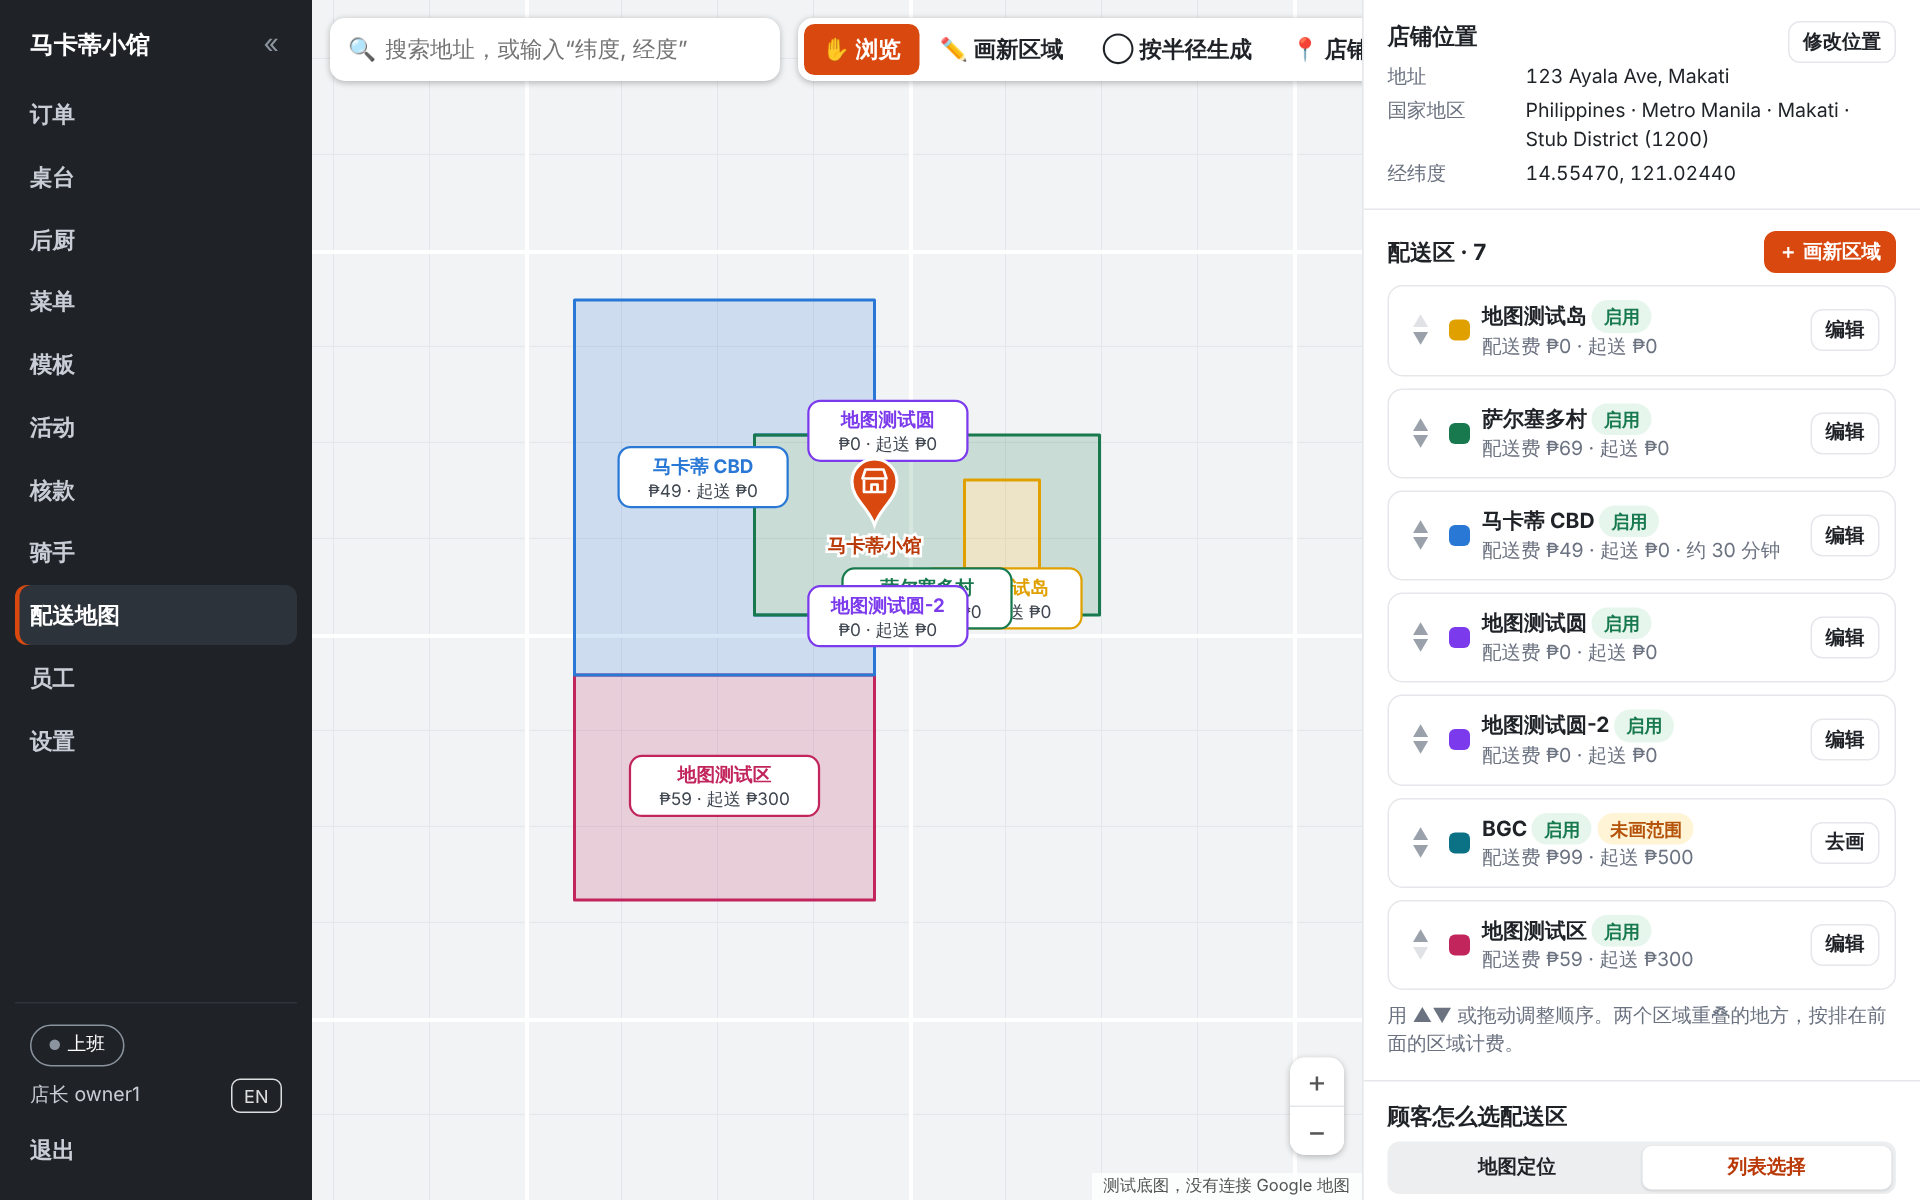
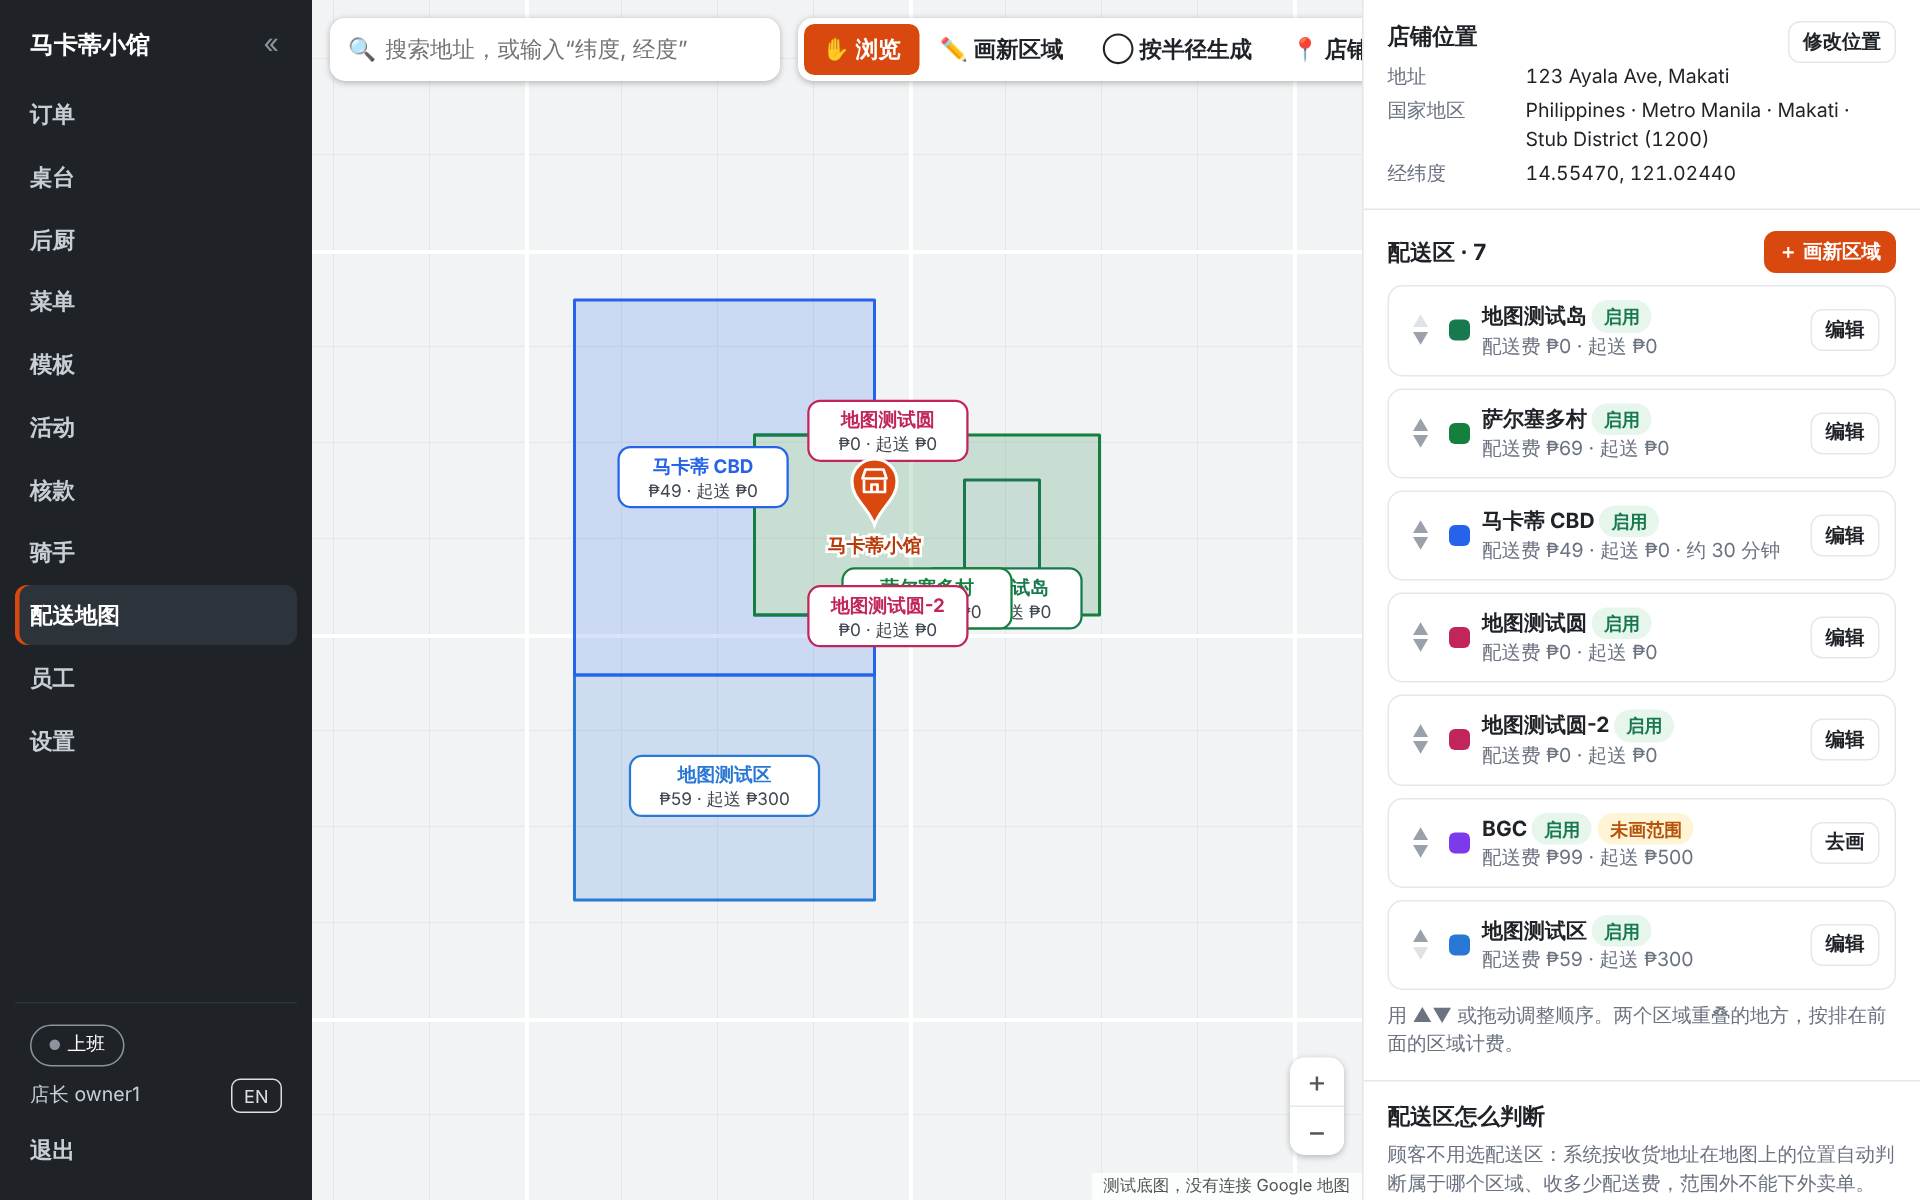
Customers never pick a delivery area: every store decides it from the address pin
- The 'pick from a list' mode is gone from the merchant's delivery map;
  migration 00025 moves every store to the pin. Only a platform without a
  map key still falls back to a list at checkout.
- The demo stores are seeded with a location and drawn delivery areas.

Claude-Session: https://claude.ai/code/session_0171QGWLnojEtBXpV8WE34Xa

diff --git a/web/src/views/DeliveryMapView.vue b/web/src/views/DeliveryMapView.vue
@@ -405,11 +405,6 @@ function dropRow(i: number) {
   reorder(ids)
 }
 const tol = ref(200)
-async function setMode(m: 'list' | 'map') {
-  if (readOnly.value || branch.value?.zone_mode === m) return
-  const b = await run(() => put<Branch>(`/merchant/branches/${bid}/zone-mode`, { zone_mode: m, zone_tolerance_m: branch.value!.zone_tolerance_m }))
-  if (b) branch.value = b
-}
 
 // ---- store location ----
 const loc = reactive({ lat: 0, lng: 0, address: '' })
@@ -492,7 +487,7 @@ async function undoClose() {
   if (await run(async () => { await putPolygon(zoneById(u.id), u.polygon); return true })) { undo = null; canUndo.value = false; notice.value = '' }
 }
 async function saveTolerance() {
-  const b = await run(() => put<Branch>(`/merchant/branches/${bid}/zone-mode`, { zone_mode: branch.value!.zone_mode, zone_tolerance_m: Math.round(Number(tol.value) || 0) }))
+  const b = await run(() => put<Branch>(`/merchant/branches/${bid}/zone-mode`, { zone_mode: 'map', zone_tolerance_m: Math.round(Number(tol.value) || 0) }))
   if (b) { branch.value = b; notice.value = t('mz.saved') }
 }
 
@@ -757,9 +752,8 @@ async function fbSave() {
         </section>
         <section>
           <h2>{{ t('mz.how') }}</h2>
-          <div class="seg"><button :class="{ on: branch.zone_mode === 'map' }" :disabled="readOnly" data-testid="mode-map" @click="setMode('map')">{{ t('mz.mode_map') }}</button>
-            <button :class="{ on: branch.zone_mode === 'list' }" :disabled="readOnly" data-testid="mode-list" @click="setMode('list')">{{ t('mz.mode_list') }}</button></div>
-          <p class="small muted" style="margin-top:8px">{{ t(branch.zone_mode === 'map' ? 'mz.mode_map_hint' : 'mz.mode_list_hint') }}</p>
+          <p class="small muted">{{ t('mz.mode_map_hint') }}</p>
+          <div v-if="!store || !drawn.some(z => z.active)" class="banner warn" style="margin-top:8px" data-testid="no-delivery-yet">{{ t('mz.no_delivery_yet') }}</div>
           <div class="row between" style="margin-top:10px"><span>{{ t('mz.tolerance') }}</span>
             <span class="row" style="gap:6px"><b>{{ t('mz.metres', { n: branch.zone_tolerance_m }) }}</b><button class="btn small" data-testid="open-gaps" @click="openGaps">{{ t('mz.view') }}</button></span></div>
           <p class="small muted" style="margin-top:4px">{{ branch.zone_tolerance_m ? t('mz.tolerance_hint', { n: branch.zone_tolerance_m }) : t('mz.tolerance_zero') }}</p>

diff --git a/web/src/views/mapStrings.ts b/web/src/views/mapStrings.ts
@@ -16,8 +16,9 @@ extend({
   'mz.fee': ['配送费', 'Fee'], 'mz.min': ['起送', 'Min.'], 'mz.eta': ['约 {n} 分钟', '~{n} min'],
   'mz.order_hint': ['用 ▲▼ 或拖动调整顺序。两个区域重叠的地方，按排在前面的区域计费。', 'Reorder with ▲▼ or by dragging. Where two areas overlap, the one higher in the list applies.'],
   'mz.no_zones': ['还没有配送区。点“画新区域”开始。', 'No delivery areas yet. Start with "Draw area".'],
-  'mz.how': ['顾客怎么选配送区', 'How customers pick an area'], 'mz.mode_map': ['地图定位', 'Pin on map'], 'mz.mode_list': ['列表选择', 'Pick from list'],
-  'mz.mode_map_hint': ['顾客下单时在地图上定位送餐地址，系统自动判断属于哪个区域，范围外不能下外卖单。', 'Customers drop a pin; the system works out the area. Outside all areas, delivery is not offered.'],
+  'mz.how': ['配送区怎么判断', 'How the area is decided'],
+  'mz.no_delivery_yet': ['还没有设置店铺位置，或者没有一个启用的区域画了范围，顾客暂时下不了外卖单。', 'The store has no location yet, or no enabled area has an outline: customers cannot order a delivery yet.'],
+  'mz.mode_map_hint': ['顾客不用选配送区：系统按收货地址在地图上的位置自动判断属于哪个区域、收多少配送费，范围外不能下外卖单。', 'Customers drop a pin; the system works out the area. Outside all areas, delivery is not offered.'],
   'mz.mode_list_hint': ['顾客自己从列表里选区域，地图上画的范围暂时不起作用。', 'Customers pick an area by name; the outlines are not used.'],
   'mz.not_ready': ['要先设置店铺位置，并且至少有一个启用的区域画了范围，才能切到地图定位。', 'Set the store location and draw at least one enabled area first.'],
   'mz.tolerance': ['圈外容差', 'Tolerance outside areas'], 'mz.metres': ['{n} 米', '{n} m'], 'mz.view': ['查看', 'View'],

diff --git a/internal/app/mapzones_test.go b/internal/app/mapzones_test.go
@@ -29,10 +29,7 @@ func TestMapZones(t *testing.T) {
 	s := newStore(t, true)
 	a, ctx := testApp, context.Background()
 
-	// Map mode needs a store location and a drawn zone first.
-	_, err := a.SaveZoneMode(ctx, s.branchID, app.ZoneModeInput{ZoneMode: "map", ZoneToleranceM: 200})
-	wantCode(t, err, "MAP_NOT_READY")
-	_, err = a.SaveLocation(ctx, s.branchID, app.LocationInput{Lat: 95, Lng: 0})
+	_, err := a.SaveLocation(ctx, s.branchID, app.LocationInput{Lat: 95, Lng: 0})
 	wantCode(t, err, "VALIDATION")
 	store := m(500, 500)
 	b, err := a.SaveLocation(ctx, s.branchID, app.LocationInput{Lat: store[0], Lng: store[1], Address: "1 Map St"})
@@ -63,8 +60,9 @@ func TestMapZones(t *testing.T) {
 	}
 	_, err = a.SaveLocation(ctx, s.branchID, app.LocationInput{Lat: store[0], Lng: store[1]})
 	noErr(t, err)
-	_, err = a.SaveZoneMode(ctx, s.branchID, app.ZoneModeInput{ZoneMode: "map", ZoneToleranceM: 200})
-	wantCode(t, err, "MAP_NOT_READY") // the only zone has no outline yet
+	// Customers can no longer be made to pick an area from a list.
+	_, err = a.SaveZoneMode(ctx, s.branchID, app.ZoneModeInput{ZoneMode: "list", ZoneToleranceM: 200})
+	wantCode(t, err, "VALIDATION")
 
 	// Outlines are validated.
 	eta := 25
@@ -218,17 +216,20 @@ func TestMapZones(t *testing.T) {
 		t.Fatalf("order after zone changes: %+v", o)
 	}
 
-	// Back to list mode: the list works again and outlines stay.
-	_, err = a.SaveZoneMode(ctx, s.branchID, app.ZoneModeInput{ZoneMode: "list", ZoneToleranceM: 200})
+	// Where the platform has no map key there is no pin: the area named in
+	// the request is used, and the outlines stay.
+	off := *a
+	off.MapsOff = true
+	zid := s.zoneID
+	lq, err := off.CreateQuote(ctx, s.slug, app.QuoteInput{ServiceType: "delivery", ZoneID: &zid, Items: s.cart()}, "+639170000001")
 	noErr(t, err)
-	q = s.quote(t, "delivery", s.cart())
-	if q.ZoneName != "Z" {
-		t.Fatalf("list mode again: %+v", q)
+	if lq.ZoneName != "Z" {
+		t.Fatalf("without a map: %+v", lq)
 	}
 	menu, err = a.AdminMenu(ctx, s.branchID)
 	noErr(t, err)
 	if len(menu.Zones) != 3 || len(menu.Zones[0].Polygon) != 4 {
-		t.Fatalf("zones after switching back: %+v", menu.Zones)
+		t.Fatalf("zones afterwards: %+v", menu.Zones)
 	}
 }
 
@@ -258,10 +259,6 @@ func TestMapModeNeedsPlatformKey(t *testing.T) {
 	_, err = a.CreateQuote(ctx, s.slug, in, "+639170000001")
 	wantCode(t, err, "OUT_OF_ZONE") // with a key the pin is required
 
-	_, err = a.SaveZoneMode(ctx, s.branchID, app.ZoneModeInput{ZoneMode: "list", ZoneToleranceM: 200})
-	noErr(t, err)
-	_, err = off.SaveZoneMode(ctx, s.branchID, app.ZoneModeInput{ZoneMode: "map", ZoneToleranceM: 200})
-	wantCode(t, err, "MAPS_DISABLED")
 }
 
 // Cutting an overlap reshapes several zones at once: all are saved or none.

diff --git a/internal/app/menu.go b/internal/app/menu.go
@@ -4,7 +4,6 @@ import (
 	"context"
 	"encoding/json"
 	"math"
-	"net/http"
 	"regexp"
 	"strings"
 
@@ -447,32 +446,17 @@ type ZoneModeInput struct {
 	ZoneToleranceM int    `json:"zone_tolerance_m"`
 }
 
-// SaveZoneMode switches between picking a zone from a list and locating on
-// the map, and sets the tolerance outside the outlines.
+// SaveZoneMode sets the tolerance outside the outlines. The area of a
+// delivery always follows the address's pin now; "list" (the customer picks
+// an area by name) can no longer be chosen. It is only what a platform
+// without a map key falls back to (forCustomer).
 func (a *App) SaveZoneMode(ctx context.Context, branchID int64, in ZoneModeInput) (*Branch, error) {
-	if in.ZoneMode != "list" && in.ZoneMode != "map" {
-		return nil, ErrValidation("zone_mode must be list or map")
+	if in.ZoneMode != "" && in.ZoneMode != "map" {
+		return nil, ErrValidation("zone_mode can only be map")
 	}
+	in.ZoneMode = "map"
 	if in.ZoneToleranceM < 0 || in.ZoneToleranceM > 500 {
 		return nil, ErrValidation("tolerance must be 0 to 500 metres")
-	}
-	if in.ZoneMode == "map" {
-		b, err := a.BranchByID(ctx, branchID)
-		if err != nil {
-			return nil, err
-		}
-		if a.mapsOff() && b.ZoneMode != "map" {
-			return nil, Err(http.StatusConflict, "MAPS_DISABLED", "this platform has no map key configured")
-		}
-		var drawn int
-		if err := a.DB.QueryRow(ctx, `SELECT count(*) FROM delivery_zones WHERE branch_id=$1 AND active
-			AND polygon IS NOT NULL`, branchID).Scan(&drawn); err != nil {
-			return nil, err
-		}
-		if b.latLng() == nil || drawn == 0 {
-			return nil, Err(http.StatusConflict, "MAP_NOT_READY",
-				"set the store location and draw at least one active zone first")
-		}
 	}
 	tag, err := a.DB.Exec(ctx, `UPDATE branches SET zone_mode=$2, zone_tolerance_m=$3 WHERE id=$1`,
 		branchID, in.ZoneMode, in.ZoneToleranceM)

diff --git a/cmd/seed/main.go b/cmd/seed/main.go
@@ -86,10 +86,16 @@ func seedStore(ctx context.Context, a *app.App, slug, name, nameEn, owner string
 	})
 	must(err)
 
+	// The store is on the map and its delivery areas are drawn: the area of a
+	// delivery follows the pin of the customer's address.
+	_, err = a.SaveLocation(ctx, bid, app.LocationInput{Lat: 14.5547, Lng: 121.0244, Address: "123 Ayala Ave, Makati",
+		Region: &app.Region{CountryCode: "PH", Country: "Philippines", Province: "Metro Manila", City: "Makati", District: "Bel-Air", PostalCode: "1209"}})
+	must(err)
+	box := func(s, w, n, e float64) app.Polygon { return app.Polygon{{n, w}, {n, e}, {s, e}, {s, w}} }
 	for i, z := range []app.ZoneInput{
-		{Name: "马卡蒂 CBD", NameEn: "Makati CBD", Fee: 4900, Active: true},
-		{Name: "萨尔塞多村", NameEn: "Salcedo Village", Fee: 6900, Active: true},
-		{Name: "BGC", NameEn: "BGC", Fee: 9900, MinOrder: 50000, Active: true},
+		{Name: "马卡蒂 CBD", NameEn: "Makati CBD", Fee: 4900, Active: true, Polygon: box(14.5480, 121.0150, 14.5600, 121.0280), Color: "#2563eb"},
+		{Name: "萨尔塞多村", NameEn: "Salcedo Village", Fee: 6900, Active: true, Polygon: box(14.5600, 121.0150, 14.5680, 121.0280), Color: "#15803d"},
+		{Name: "BGC", NameEn: "BGC", Fee: 9900, MinOrder: 50000, Active: true, Polygon: box(14.5400, 121.0400, 14.5600, 121.0600), Color: "#7c3aed"},
 	} {
 		z.Sort = i
 		_, err := a.SaveZone(ctx, bid, 0, z)

diff --git a/internal/app/app_test.go b/internal/app/app_test.go
@@ -94,6 +94,10 @@ func newStore(t *testing.T, taxInclusive bool) *store {
 		Owner: app.NewUser{Username: s.ownerName, Password: "password1", DisplayName: "Owner"}})
 	noErr(t, err)
 	s.branchID = m.BranchID
+	// Most tests here price a delivery by a zone named in the request, as a
+	// platform without a map does; the tests of the map switch to "map".
+	_, err = a.DB.Exec(ctx, `UPDATE branches SET zone_mode='list' WHERE id=$1`, s.branchID)
+	noErr(t, err)
 	_, err = a.SaveSettings(ctx, s.branchID, app.SettingsInput{Name: "T", TaxRateBP: 1200, TaxInclusive: taxInclusive,
 		ServiceChargeBP: 500, PackagingFee: 1000, AcceptTimeoutMinutes: 10, DeliveryEnabled: true, PickupEnabled: true,
 		OpenTime: "00:00", CloseTime: "00:00"})

diff --git a/internal/app/store.go b/internal/app/store.go
@@ -47,8 +47,9 @@ type Branch struct {
 	City        string `json:"city"`
 	District    string `json:"district"`
 	PostalCode  string `json:"postal_code"`
-	// ZoneMode is "list" (the customer picks a zone by name) or "map" (the
-	// customer drops a pin and matchZone decides).
+	// ZoneMode is "map": the delivery address's pin decides the zone
+	// (matchZone). "list" (the customer picks a zone by name) is what
+	// customers get only where the platform has no map key.
 	ZoneMode       string `json:"zone_mode"`
 	ZoneToleranceM int    `json:"zone_tolerance_m"`
 	// Notice scrolls under the store's name; Intro is "about the store".

diff --git a/internal/httpapi/http_test.go b/internal/httpapi/http_test.go
@@ -145,6 +145,10 @@ func newFixture(t *testing.T) *fixture {
 		t.Fatal(err)
 	}
 	f.branchID = m.BranchID
+	// These tests price a delivery by a zone named in the request, as a platform without a map does.
+	if _, err := a.DB.Exec(ctx, `UPDATE branches SET zone_mode='list' WHERE id=$1`, f.branchID); err != nil {
+		t.Fatal(err)
+	}
 	f.zoneID, _ = a.SaveZone(ctx, f.branchID, 0, app.ZoneInput{Name: "Z", Fee: 5000, Active: true})
 	cat, _ := a.SaveCategory(ctx, f.branchID, 0, app.CategoryInput{Name: "C"})
 	f.itemID, err = a.SaveItem(ctx, f.branchID, 0, app.ItemInput{CategoryID: cat, Name: "tea", Price: 6900,
